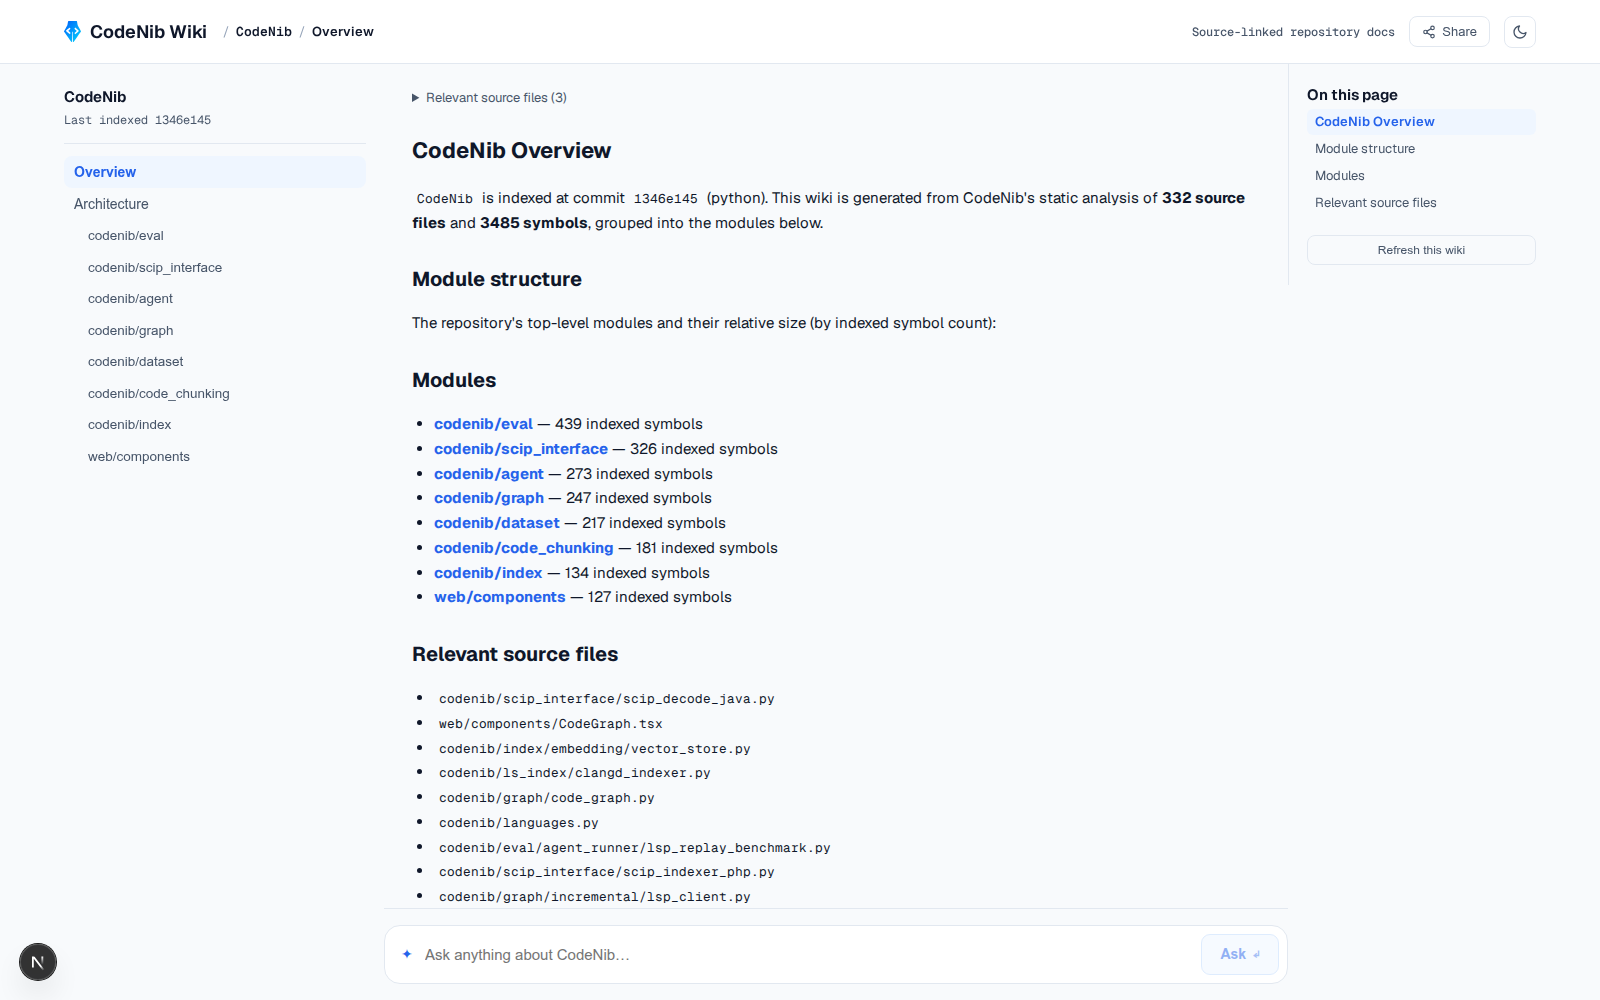
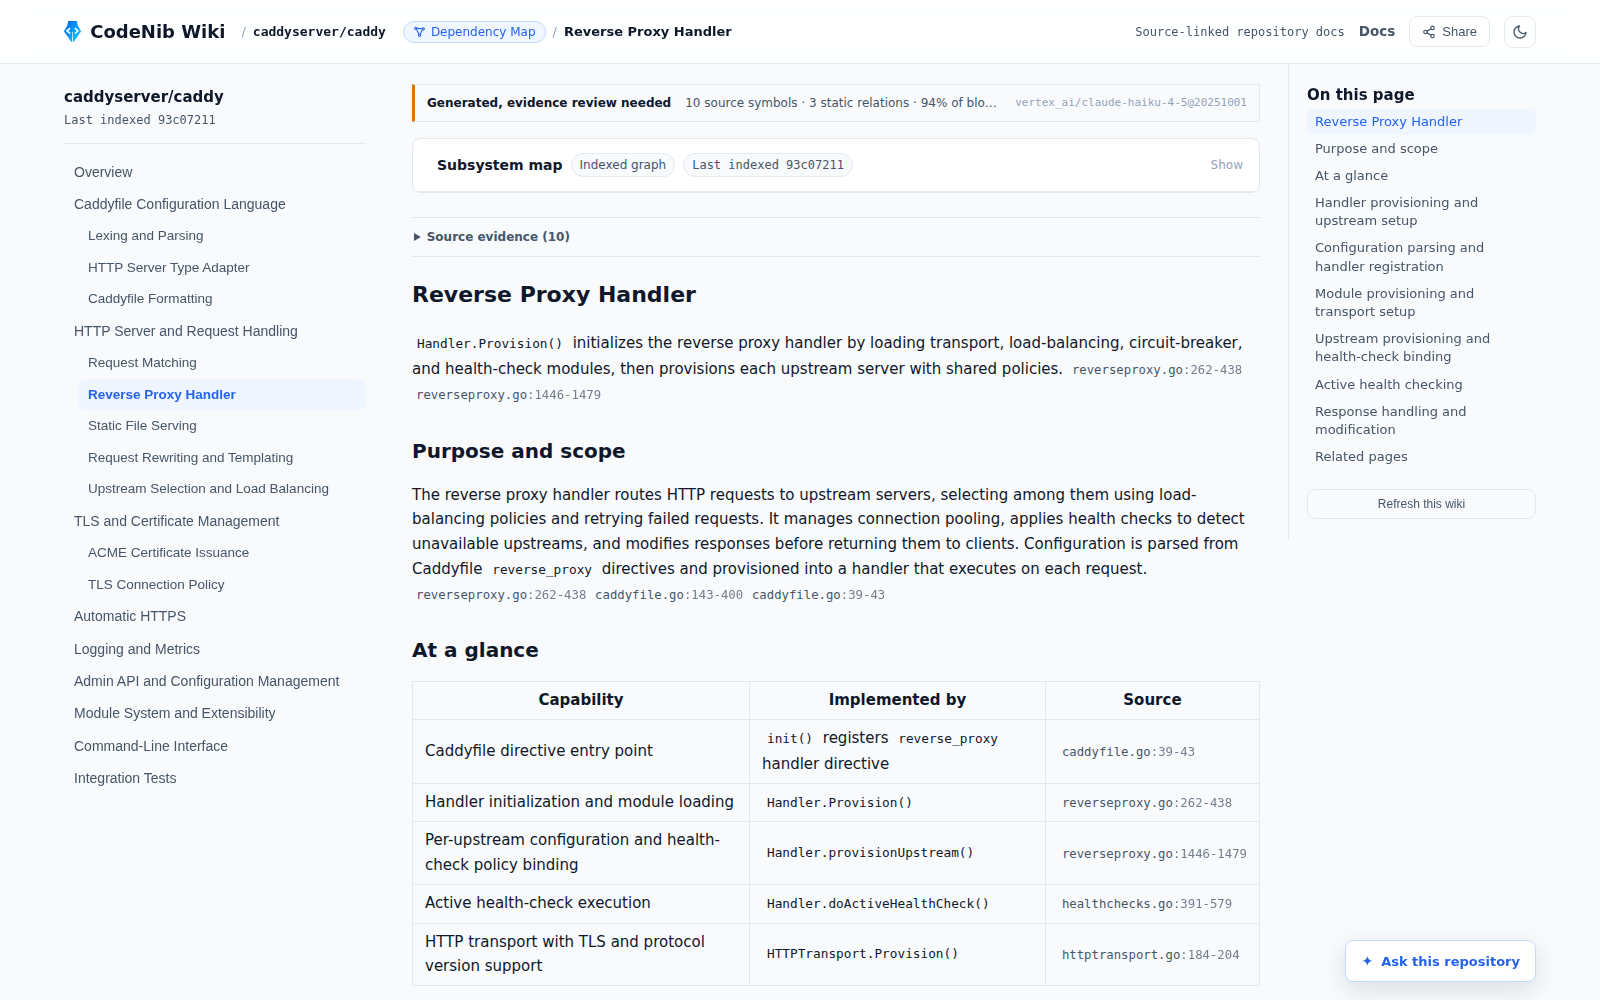
docs(readme): refresh the Wiki screenshot (#380)
Replace the stale README image with a current 1600x1000 capture from demo.codenib.ai and correct its alternative text.

diff --git a/README.md b/README.md
@@ -92,7 +92,7 @@ See the
 for ports, advanced indexing, and troubleshooting.
 
 <p align="center">
-  <img src="https://raw.githubusercontent.com/sysevol-ai/CodeNib/main/assets/codenib_wiki.png" alt="CodeNib Wiki showing a source-linked overview of the CodeNib repository" width="100%">
+  <img src="https://raw.githubusercontent.com/sysevol-ai/CodeNib/main/assets/codenib_wiki.png" alt="CodeNib Wiki showing the source-linked reverse proxy guide for Caddy" width="100%">
 </p>
 
 ## Serve An Agent
